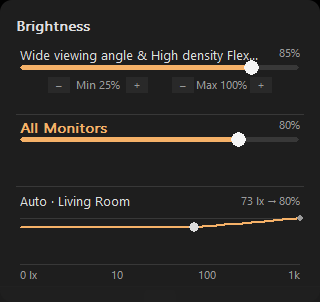
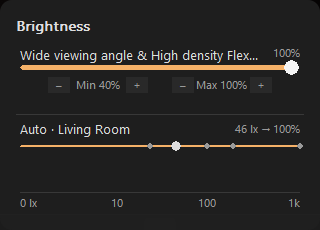
docs: update README and screenshots for v1.4.0

diff --git a/README.md b/README.md
@@ -63,12 +63,12 @@ Windows can dim a laptop panel, but it will not touch the brightness of external
 ## Screenshots
 
 <p align="center">
-  <img src="screenshots/01-popup.png" width="320" alt="Brightness popup: a slider, a minimum and a maximum for each monitor, the All Monitors slider, and the auto brightness panel with the light sensor reading and the learned curve" />
+  <img src="screenshots/01-popup.png" width="320" alt="Brightness popup with one monitor: its slider, minimum and maximum, and the auto brightness panel with the light sensor reading and the learned curve" />
   &nbsp;&nbsp;
   <img src="screenshots/02-context-menu.png" width="220" alt="Dark context menu in three groups: presets; auto brightness, schedule and idle dim; re-scan, Settings and autostart; then About and Exit" />
 </p>
 <p align="center">
-  <img src="screenshots/04-settings.png" width="280" alt="Settings window with sections for general settings, hotkeys, idle dim, schedule, Home Assistant and presets" />
+  <img src="screenshots/04-settings.png" width="280" alt="Settings window with sections for general settings, hotkeys, idle dim, window restore, schedule, Home Assistant and presets" />
   &nbsp;&nbsp;
   <img src="screenshots/03-osd.png" width="200" alt="On-screen display overlay with percentage and progress bar" />
 </p>
@@ -89,7 +89,7 @@ Windows can dim a laptop panel, but it will not touch the brightness of external
 - **Command line** - `lumosctl.exe` sets, raises, lowers and reads the brightness of all monitors or one of them, applies presets, and switches the schedule and idle dim, through the running Lumos.
 - **Settings window** - A dark window for the brightness step, the hotkeys, idle dim, the window restore, the schedule and autostart switches, Home Assistant auto brightness, and the preset values.
 - **Reconnect and restore** - Lumos detects the monitors again after a plug or unplug, an unlock, a display power-on and a wake from sleep, and re-applies your brightness, because displays often reset to full brightness across sleep. An external monitor often wakes a few seconds after the laptop panel and does not answer DDC/CI at first. Lumos then shows it as **Unavailable**, keeps the other screens working, and tries again after 2, 5, 10 and 20 seconds and then every minute until the monitor answers. The same retry runs when Lumos starts while a known monitor is still off.
-- **Window positions after a display drops** - Optional, off by default. A monitor on DisplayPort often drops its link while it sleeps, and Windows then moves every window to the screens that remain, or to a small placeholder screen when none remains. When the monitor returns, the windows stay where Windows put them. Lumos remembers the window arrangement when the session locks or the display turns off, and every few seconds while you work, so a monitor switched off at its button is covered too. If a display dropped in the meantime, Lumos puts the windows back a few seconds after the same displays are present again. It leaves alone any window you moved or resized after you came back, and it does not change the focus.
+- **Window positions after a display drops** - Optional, off by default. Some monitors drop their link while they sleep, and Windows then moves every window to the screens that remain, or to a small placeholder screen when none remains. When the monitor returns, the windows stay where Windows put them. Lumos remembers the window arrangement when the session locks or the display turns off, and every few seconds while you work, so a monitor switched off at its button is covered too. If a display dropped in the meantime, Lumos puts the windows back a few seconds after the same displays are present again. It leaves alone any window you moved or resized after you came back, and it does not change the focus.
 - **Autostart** - Optional launch at login.
 - **Single instance with handoff** - Starting a newer build takes over from the one that is running.
 
